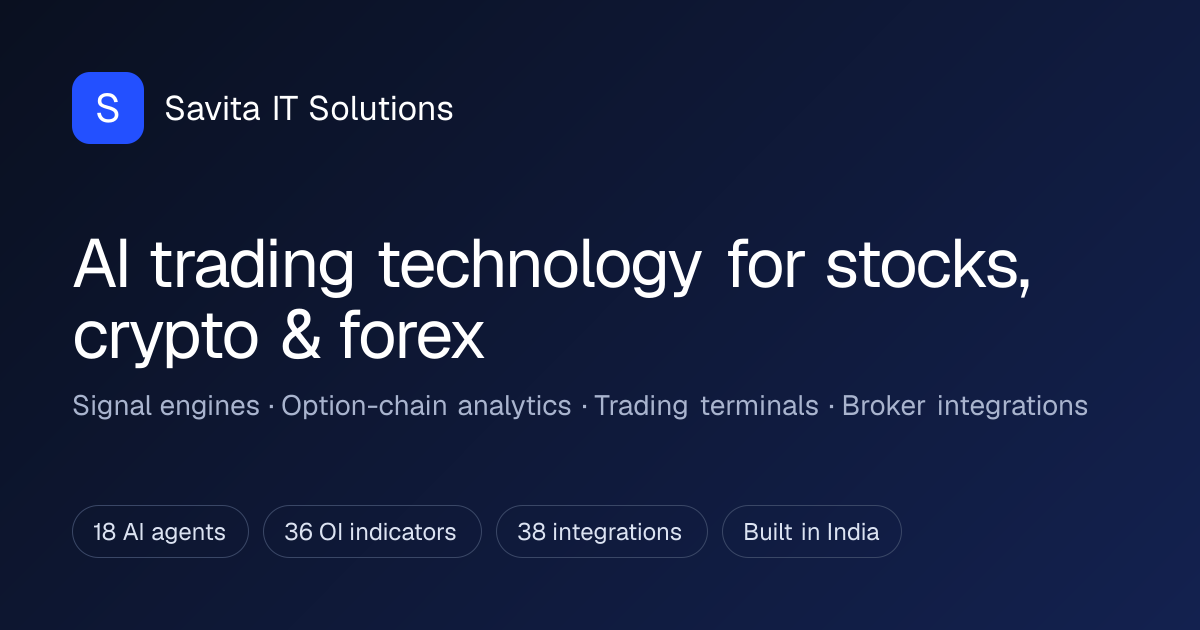
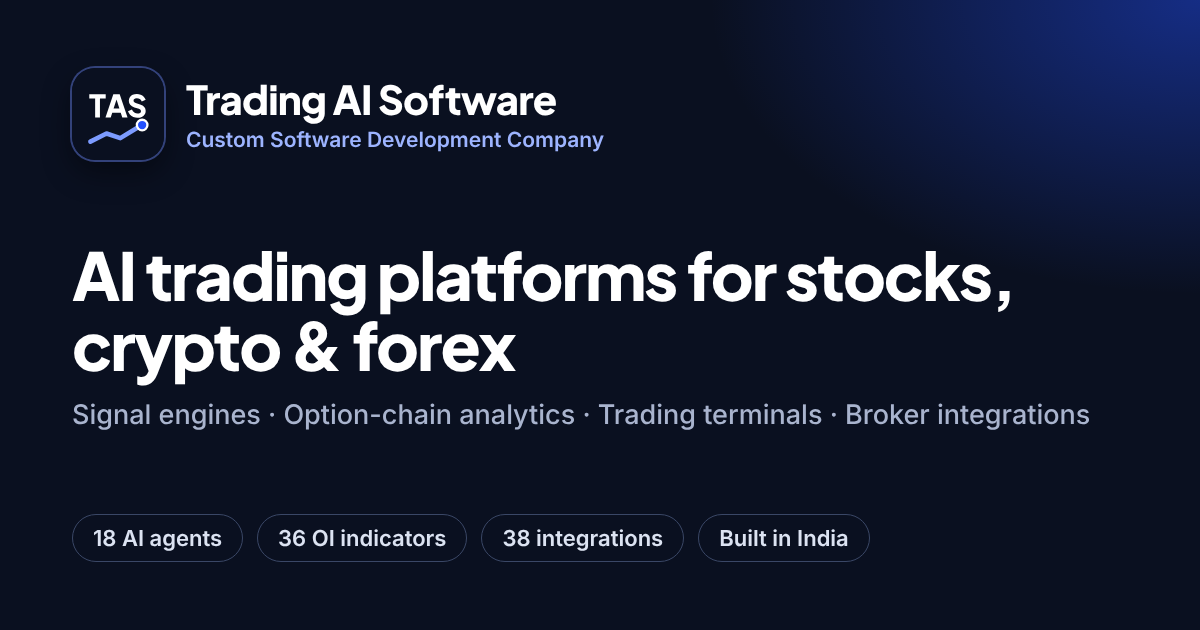
Rebrand website to Trading AI Software
- Site name, titles, meta description and keywords: Savita IT Solutions ->
  Trading AI Software (custom software development company).
- New TAS logo (same artwork as the business card, lettering as vector paths)
  in the header, favicon/app icon and web manifest.
- Header wordmark: Trading AI Software / Custom Software Development; phone
  header keeps logo + menu only so the longer name never overlaps.
- New Trading AI Software share image (public/og-image.png).
- Remaining copy, FAQ, terminal preview title, auto-reply email, README,
  package name and .env.example updated.

Claude-Session: https://claude.ai/code/session_01SCqkE64jegC3pebv3mXVmk

diff --git a/src/lib/data.ts b/src/lib/data.ts
@@ -240,9 +240,9 @@ export const plans = [
 ];
 
 export const faqs = [
-  { q: 'What does Savita IT Solutions build?', a: 'AI-powered trading software for stock, crypto and currency markets: signal engines, trading terminals and portals, option-chain analytics, backtesting platforms, risk systems and broker or exchange integrations.' },
+  { q: 'What does Trading AI Software build?', a: 'AI-powered trading software for stock, crypto and currency markets: signal engines, trading terminals and portals, option-chain analytics, backtesting platforms, risk systems and broker or exchange integrations.' },
   { q: 'Which brokers and exchanges can you integrate with?', a: 'We build against official APIs including Zerodha Kite Connect, Fyers, Upstox, Angel One SmartAPI, ICICI Direct Breeze, Dhan, Groww, Alpaca, Interactive Brokers, Binance, Coinbase, OANDA and MetaTrader 5, among others.' },
-  { q: 'Do you provide investment advice or trading tips?', a: 'No. Savita IT Solutions is a technology company. We build software for market participants and do not provide investment advice, research recommendations or portfolio management.' },
+  { q: 'Do you provide investment advice or trading tips?', a: 'No. Trading AI Software is a technology company. We build software for market participants and do not provide investment advice, research recommendations or portfolio management.' },
   { q: 'Can you deliver under our brand?', a: 'Yes. Our white-label model delivers our proven modules — terminal, screeners, option analytics and integrations — on your branding and domain.' },
   { q: 'Who owns the code?', a: 'For custom builds, the source code is handed over to you at the end of the engagement.' },
   { q: 'How do you validate trading strategies?', a: 'With walk-forward backtests, purged train/test boundaries, out-of-sample confirmation periods, realistic Indian costs and slippage, and comparisons against random-entry baselines.' }

diff --git a/src/components/ui.tsx b/src/components/ui.tsx
@@ -1,11 +1,13 @@
 import type { ReactNode } from 'react';
 
+/** Trading AI Software "TAS" mark — same artwork as the business card (lettering converted to paths). */
 export function Logo({ size = 38 }: { size?: number }) {
   return (
-    <svg width={size} height={size} viewBox="0 0 38 38" aria-hidden="true">
-      <rect width="38" height="38" rx="10" fill="#0A1020" />
-      <path d="M9 25.5l6-6.5 4.5 4 9.5-10" stroke="#7C9BFF" strokeWidth="3" fill="none" strokeLinecap="round" strokeLinejoin="round" />
-      <circle cx="29" cy="13" r="2.8" fill="#FFFFFF" />
+    <svg width={size} height={size} viewBox="0 0 40 40" aria-hidden="true">
+      <rect width="40" height="40" rx="10" fill="#0A1020" />
+      <path d="M10.06 21.5V13.26H7.51V11.44H14.66V13.26H12.15V21.5ZM14.56 21.5 17.96 11.44H20.74L24.15 21.5H21.86L21.19 19.44H17.50L16.83 21.5ZM18.08 17.62H20.61L19.07 12.87H19.64ZM28.44 21.66Q27.50 21.66 26.67 21.31Q25.84 20.97 25.24 20.33Q24.64 19.70 24.34 18.84L26.05 18.07Q26.43 18.89 27.10 19.36Q27.77 19.83 28.58 19.83Q29.01 19.83 29.32 19.70Q29.63 19.56 29.81 19.33Q29.98 19.09 29.98 18.77Q29.98 18.42 29.77 18.17Q29.55 17.92 29.09 17.77L27.12 17.12Q25.92 16.73 25.31 16.01Q24.70 15.29 24.70 14.27Q24.70 13.38 25.14 12.71Q25.58 12.03 26.37 11.65Q27.16 11.28 28.19 11.28Q29.09 11.28 29.86 11.59Q30.63 11.90 31.19 12.46Q31.75 13.03 32.04 13.83L30.33 14.60Q30.05 13.89 29.48 13.50Q28.92 13.10 28.19 13.10Q27.77 13.10 27.45 13.23Q27.12 13.37 26.95 13.62Q26.77 13.87 26.77 14.19Q26.77 14.54 27.00 14.81Q27.23 15.07 27.69 15.22L29.62 15.84Q30.83 16.23 31.43 16.93Q32.04 17.63 32.04 18.65Q32.04 19.52 31.58 20.21Q31.12 20.89 30.31 21.27Q29.51 21.66 28.44 21.66Z" fill="#FFFFFF" />
+      <path d="M8 32 L15 28.5 L21 30.5 L30 25" stroke="#7C9BFF" strokeWidth="2" fill="none" strokeLinecap="round" strokeLinejoin="round" />
+      <circle cx="30.5" cy="24.8" r="2.3" fill="#2350FF" stroke="#FFFFFF" strokeWidth="1" />
     </svg>
   );
 }

diff --git a/src/app/layout.tsx b/src/app/layout.tsx
@@ -14,7 +14,7 @@ const mono = localFont({ src: '../fonts/jetbrains-mono-latin-500.woff2', weight:
 
 export const metadata: Metadata = {
   metadataBase: new URL(site.url),
-  title: { default: `${site.name} — AI Trading Software for Stocks, Crypto & Forex`, template: `%s | ${site.name}` },
+  title: { default: `${site.name} — AI Trading Platforms & Custom Software Development`, template: `%s | ${site.name}` },
   description: site.description,
   applicationName: site.name,
   keywords: site.keywords,
@@ -23,8 +23,8 @@ export const metadata: Metadata = {
   publisher: site.name,
   category: 'technology',
   alternates: { canonical: `${site.url}/` },
-  openGraph: { type: 'website', locale: 'en_IN', url: site.url, siteName: site.name, title: `${site.name} — AI Trading Software`, description: site.description, images: [ogImage] },
-  twitter: { card: 'summary_large_image', title: `${site.name} — AI Trading Software`, description: site.description, images: [ogImage.url] },
+  openGraph: { type: 'website', locale: 'en_IN', url: site.url, siteName: site.name, title: `${site.name} — AI Trading Platforms & Custom Software`, description: site.description, images: [ogImage] },
+  twitter: { card: 'summary_large_image', title: `${site.name} — AI Trading Platforms & Custom Software`, description: site.description, images: [ogImage.url] },
   robots: { index: true, follow: true, googleBot: { index: true, follow: true, 'max-image-preview': 'large', 'max-snippet': -1 } },
   verification: { google: process.env.NEXT_PUBLIC_GOOGLE_SITE_VERIFICATION || undefined },
   formatDetection: { telephone: false }

diff --git a/src/app/globals.css b/src/app/globals.css
@@ -1,5 +1,5 @@
 /* ==========================================================================
-   Savita IT Solutions — design system
+   Trading AI Software — design system
    Ink #0A1020 · Blue #2350FF · Up #2BD48A · Down #FF6B6B
    ========================================================================== */
 :root {
@@ -103,8 +103,8 @@ button { font: inherit; }
 .brand { display: flex; align-items: center; gap: 12px; text-decoration: none; color: var(--ink); }
 .brand:hover { color: var(--ink); }
 .brand-name { display: flex; flex-direction: column; line-height: 1.05; }
-.brand-name b { font-family: var(--font-head); font-weight: 800; font-size: 19px; }
-.brand-name small { font-size: 11.5px; color: var(--muted-2); letter-spacing: .02em; }
+.brand-name b { font-family: var(--font-head); font-weight: 800; font-size: 17.5px; white-space: nowrap; }
+.brand-name small { font-size: 11.5px; color: var(--muted-2); white-space: nowrap; }
 .nav-links { display: flex; gap: 22px; align-items: center; }
 .nav-links a { color: #3A4357; text-decoration: none; font-size: 15px; font-weight: 500; }
 .nav-links a:hover, .nav-links a[aria-current='page'] { color: var(--ink); }
@@ -308,7 +308,8 @@ table.data .sym { font-weight: 600; color: #fff; }
   .flow { grid-template-columns: repeat(2, minmax(0, 1fr)); }
   .form-row { grid-template-columns: minmax(0, 1fr); }
   .hide-sm { display: none !important; }
-  .nav-cta .btn-light { display: none; }
+  .nav-cta .btn { display: none; }
+  .brand-name b { font-size: 16.5px; }
   .hero { padding-top: 48px; }
   .card { padding: 22px; }
 }

diff --git a/src/lib/site.ts b/src/lib/site.ts
@@ -3,12 +3,12 @@
  * Update these values (or the matching NEXT_PUBLIC_* environment variables) before going live.
  */
 export const site = {
-  name: 'Savita IT Solutions',
-  shortName: 'Savita IT',
+  name: 'Trading AI Software',
+  shortName: 'TAS',
   url: (process.env.NEXT_PUBLIC_SITE_URL || 'https://tradingaisoftware.com').replace(/\/$/, ''),
   tagline: 'Institutional-grade AI trading technology, engineered in India.',
   description:
-    'Savita IT Solutions builds AI-powered trading terminals, signal engines, option-chain analytics, backtesting platforms and broker integrations for stock, crypto and currency markets.',
+    'Trading AI Software is a custom software development company building AI-powered trading terminals, signal engines, option-chain analytics, backtesting platforms and broker integrations for stock, crypto and currency markets.',
   email: process.env.NEXT_PUBLIC_CONTACT_EMAIL || 'info@tradingaisoftware.com',
   phone: process.env.NEXT_PUBLIC_CONTACT_PHONE || '+91 84607 71378',
   whatsapp: process.env.NEXT_PUBLIC_WHATSAPP || '918460771378',
@@ -36,7 +36,10 @@ export const site = {
     'crypto trading platform development',
     'forex trading platform development',
     'backtesting platform',
-    'fintech software company India'
+    'fintech software company India',
+    'custom software development company India',
+    'software development company Gandhinagar',
+    'Trading AI Software'
   ]
 };
 

diff --git a/src/components/Sections.tsx b/src/components/Sections.tsx
@@ -20,7 +20,7 @@ export function Hero() {
       <div className="wrap hero-copy">
         <Link href="/products/trading-yantra" className="announce"><span>New</span>Introducing Trading Yantra, our AI research platform for NSE</Link>
         <h1 className="h1">{site.tagline}</h1>
-        <p className="lead">Savita IT Solutions builds AI-powered trading terminals, signal engines, analytics portals and broker integrations for stock, crypto and currency markets — designed by traders, engineered by solution architects.</p>
+        <p className="lead">Trading AI Software builds AI-powered trading terminals, signal engines, analytics portals and broker integrations for stock, crypto and currency markets — designed by traders, engineered by solution architects.</p>
         <div style={{ display: 'flex', gap: 12, flexWrap: 'wrap', justifyContent: 'center' }}>
           <Link href="/contact" className="btn btn-primary">Start your project</Link>
           <Link href="#screens" className="btn btn-light">Explore product screens</Link>

diff --git a/src/app/technology/page.tsx b/src/app/technology/page.tsx
@@ -12,7 +12,7 @@ export const metadata = pageMeta({
 export default function TechnologyPage() {
   return (
     <>
-      <PageHero crumbs={[{ href: '/', label: 'Home' }, { label: 'Technology' }]} eyebrow="Technology" title="The engineering behind institutional-grade trading software." lead="Options intelligence, trustworthy AI, an institutional risk engine and evidence-first research — the four pillars every Savita platform is built on." />
+      <PageHero crumbs={[{ href: '/', label: 'Home' }, { label: 'Technology' }]} eyebrow="Technology" title="The engineering behind institutional-grade trading software." lead="Options intelligence, trustworthy AI, an institutional risk engine and evidence-first research — the four pillars every platform we build stands on." />
       <Signature />
       <CtaBanner />
       <JsonLd data={breadcrumbLd([{ name: 'Home', path: '/' }, { name: 'Technology', path: '/technology' }])} />

diff --git a/src/app/api/contact/route.ts b/src/app/api/contact/route.ts
@@ -77,8 +77,8 @@ async function sendEmail(lead: Lead, record: Record<string, unknown>) {
     await transport.sendMail({
       from,
       to: lead.email,
-      subject: 'We received your enquiry — Savita IT Solutions',
-      text: `Hi ${lead.name},\n\nThank you for contacting Savita IT Solutions. Our team has received your enquiry and will reply within one business day.\n\nRegards,\nSavita IT Solutions`
+      subject: 'We received your enquiry — Trading AI Software',
+      text: `Hi ${lead.name},\n\nThank you for contacting Trading AI Software. Our team has received your enquiry and will reply within one business day.\n\nRegards,\nTrading AI Software`
     });
   }
   return true;

diff --git a/src/app/contact/page.tsx b/src/app/contact/page.tsx
@@ -3,7 +3,7 @@ import { breadcrumbLd, faqLd, JsonLd, pageMeta } from '@/lib/seo';
 
 export const metadata = pageMeta({
   title: 'Contact Us — Start Your Trading Software Project',
-  description: 'Talk to Savita IT Solutions about AI trading software, broker integrations, option analytics or a white-label platform. We reply within one business day.',
+  description: 'Talk to Trading AI Software about AI trading software, broker integrations, option analytics or a white-label platform. We reply within one business day.',
   path: '/contact'
 });
 

diff --git a/src/components/Header.tsx b/src/components/Header.tsx
@@ -17,7 +17,7 @@ export default function Header() {
       <nav aria-label="Main" className="wrap">
         <Link href="/" className="brand" aria-label={`${site.name} — home`}>
           <Logo />
-          <span className="brand-name"><b>Savita</b><small>IT Solutions</small></span>
+          <span className="brand-name"><b>Trading AI Software</b><small>Custom Software Development</small></span>
         </Link>
         <div className="nav-links">
           {nav.map((n) => (

diff --git a/src/components/Terminal.tsx b/src/components/Terminal.tsx
@@ -35,7 +35,7 @@ export default function Terminal() {
   );
 
   return (
-    <Window title="Savita Terminal — AI trading workspace" note="" right={tabs}>
+    <Window title="TAS Terminal — AI trading workspace" note="" right={tabs}>
       <div className="term-grid">
         <div className="pane watchlist" style={{ display: 'flex', flexDirection: 'column', gap: 4 }}>
           <div className="lbl" style={{ paddingBottom: 6 }}>Watchlist</div>

diff --git a/README.md b/README.md
@@ -1,6 +1,6 @@
-# Savita IT Solutions — Website
+# Trading AI Software — Website
 
-Production website for **Savita IT Solutions**, an AI-first technology company building trading software for stock, crypto and currency markets.
+Production website for **Trading AI Software** (tradingaisoftware.com), an AI-first custom software development company building trading software for stock, crypto and currency markets.
 
 Built with **React 19 + Next.js 16 (App Router) + TypeScript**. Every page is pre-rendered to static HTML for fast loading and full search-engine visibility. The only server code is the lead-collection API.
 
